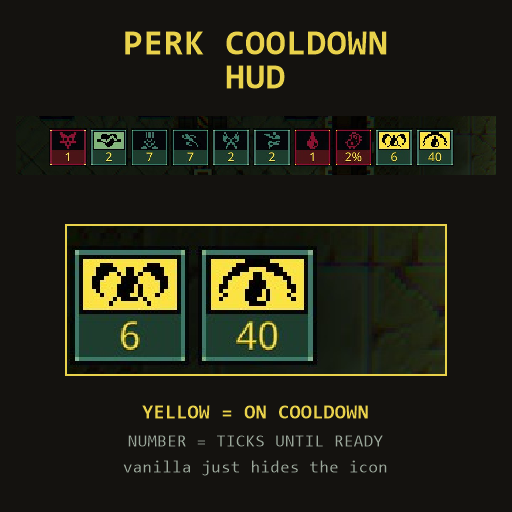
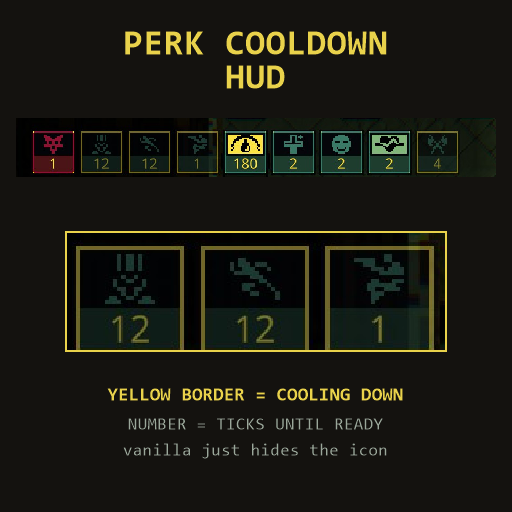
Fix the Workshop thumbnail: it was showcasing the vanilla damage shield
The published thumbnail zoomed in on two panels that had nothing to do with this
mod. The mod's signal is a yellow BORDER on a dimmed panel; the game independently
draws the damage shield with a bright yellow ICON FILL inside an ordinary teal
border. At thumbnail scale both just read as "yellow panel", so the wrong pair got
picked out and captioned as the feature.

Worth noting the code rules out the alternative explanation: CommonEffectPanel sets
_yellowBorder in exactly one vanilla place, OnPointerEnter, and this mod's patch is
gated on (effect as PerkTrigger) && !IsInActivePhase. So a yellow border can only
mean hover or a cooling perk - the yellow-filled shield panels were never ours to
show off. The mod itself is correct; only the marketing was wrong.

The zoom is now pinned by coordinate to the 12 / 12 / 1 run in the 16:21:54 capture,
which are genuinely cooling perks, and both the script header and PUBLISHING.md
record the fill-vs-border trap so it does not get re-picked from a future screenshot.

Renamed make-thumbnail.ps1 to make-images.ps1, since it now also emits gallery
shots:

  workshop-images/01-cooling.png   four perks mid-cooldown, yellow bordered, dimmed
  workshop-images/02-normal.png    nothing on cooldown, stock teal panels

Those two are straight crops of the effect bar with no captions or callouts, which
is what actually communicates the feature - a before/after of the same HUD strip.
[…]

Changed region(s): [[0.125, 0.4375, 0.875, 0.9375], [0.0312, 0.2188, 0.9062, 0.3438], [0.9375, 0.2188, 0.9688, 0.25]]

diff --git a/PUBLISHING.md b/PUBLISHING.md
@@ -107,13 +107,23 @@ Pass `FALSE` when the preview hasn't changed — it skips re-uploading the image
 command writes a changelog, so note changes in the description or a change note on the
 site.
 
-## The preview image
+## The preview image and gallery
 
-`tools/make-thumbnail.ps1` builds `src/PerkCooldownHud/thumbnail.png` from an in-game
-capture, and `build.ps1` stages it automatically. It is a script rather than a checked-in
-binary so the crop is reproducible and re-runnable against a fresh screenshot.
+`tools/make-images.ps1` builds `src/PerkCooldownHud/thumbnail.png` and
+`src/PerkCooldownHud/workshop-images/*.png` from in-game captures. `build.ps1` stages
+`thumbnail.png` automatically; the gallery images are **added by hand on the item page**,
+since no console command uploads them.
 
-Raw captures here are 5120x1440 ultrawide, where the effect bar is a ~1000px sliver in a
+It is a script rather than checked-in binaries so the crops are reproducible against fresh
+screenshots.
+
+Raw captures here are 5120x1440 ultrawide, where the effect bar is a ~900px sliver in a
 mostly black frame — unreadable once Steam scales it into a square grid tile. The script
-crops the bar, scales it nearest-neighbour (it is pixel art; bilinear smears it) and
-captions it. Steam rejects previews over 1 MB; the script warns if it gets close.
+crops the bar and scales it nearest-neighbour (it is pixel art; bilinear smears it). Steam
+rejects previews over 1 MB; the script warns if one gets close.
+
+**A trap worth knowing:** this mod's signal is a yellow *border* on a dimmed panel, but the
+game independently draws the damage shield with a yellow *icon fill*. Both read as "yellow
+panel" at a glance, and the first thumbnail published here showcased two damage shields by
+mistake. The zoom rectangle is pinned by coordinate to panels that are genuinely cooling
+down.

diff --git a/README.md b/README.md
@@ -20,10 +20,11 @@ src/<ModName>/               one folder per mod = one Workshop item
   modmanifest.json             what the game's loader reads
   patch-targets.json           the game members this mod patches (see Verifying)
   thumbnail.png                Steam Workshop preview image (optional)
+  workshop-images/             extra gallery shots, uploaded by hand
 dev/<ModName>/               local-only helpers; built like mods, never published
 tools/Verify/                dev-only verifier, never ships
 tools/core-targets.json      mod-loader surface every mod depends on
-tools/make-thumbnail.ps1     builds a Workshop preview from an in-game capture
+tools/make-images.ps1        builds Workshop images from in-game captures
 dist/<ModName>/              exactly what gets uploaded to the Workshop
 ```
 
